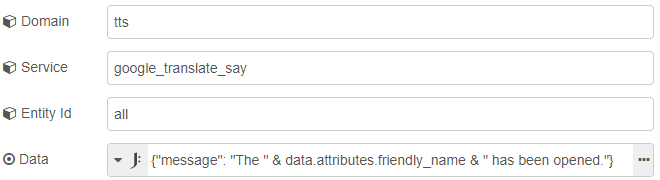
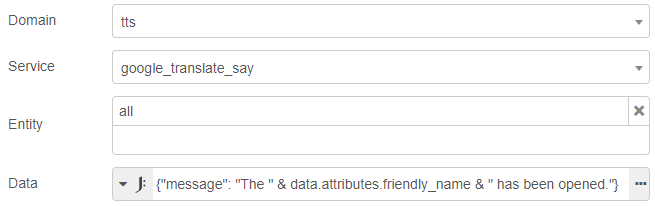
docs(call-service): Update tips and tricks and node docs with target info
Closes #574

diff --git a/docs/guide/call-service.md b/docs/guide/call-service.md
@@ -4,13 +4,9 @@
 
 The `homeassisant` domain can be used with different domains of entities with certain services.
 
-Here's an example of using the `homeassistant` domain to turn off a light and a switch in a single service call. This can save you from having to have multiple call-service nodes.
+Here's an example of using the `homeassistant` domain to turn off some lights, switches, and everything that can be turned off in the laundry room in a single service call. This can save you from having to have multiple call-service nodes.
 
 ![screenshot of a call-service node using homeassistant domain](./images/call-service_06.png)
-
-::: tip
-Most services in Home Assistant accept multiple entity ids in a single call. This is accomplished in the call-service node by using a comma-delimited list in the entity id field.
-:::
 
 ## Using Mustache Templates
 
@@ -30,16 +26,22 @@ Mustache templates are also accepted in the data field when their type is set to
 
 - [Mustache Templates](./mustache-templates.md)
 
+## Targets
+
+The target fields allow you to target areas, devices, and/or entities. Any combination can be used when they are available, some services don't accept areas and devices.
+
+Mustache templates and environment variables can be used inside each target list.
+
+## Data Field
+
 ::: tip
-It's recommend using the JSONata expression, `J: Expression`, for the data field as it has several advantages over JSON.
+It's recommended to use the JSONata expression, `J: Expression`, for the data field as it has several advantages over JSON.
 
 - Handles quotes based on the type of variable
 - Allows the insertion of more complex variables such as arrays and object
 - Mathematical operations are permitted
 
 :::
-
-## Data Field
 
 ### Inserting a message property into a string
 
@@ -64,7 +66,7 @@ There's a custom function in JSONata inside Home Assistant nodes that allows the
 
 ### Doing arithmetic
 
-Home Assistant states are represented as strings so to be able to do arithmetic on then in JSONata they will need to be cast to a number first use [`$number()`](https://docs.jsonata.org/numeric-functions#number). Most attributes of entities are in their correct state but never hurts to be safe and cast them as a number.
+Home Assistant states are represented as strings so to be able to do arithmetic on them in JSONata they will need to be cast to a number first use [`$number()`](https://docs.jsonata.org/numeric-functions#number). Most attributes of entities are in their correct state but never hurt to be safe and cast them as a number.
 
 `$number($entities("sensor.kitchen_lux").state)`
 
@@ -78,7 +80,7 @@ Home Assistant states are represented as strings so to be able to do arithmetic 
 
 ### Create a comma-delimited entity id list
 
-Example of getting a list of lights from the get-entities node and then creating an entity id list to turn them off. The entity id field is left blank in this example as we defining it in the data field.
+Example of getting a list of lights from the get-entities node and then creating an entity id list to turn them off. The entity id field is left blank in this example as it is defined in the data field.
 
 ![screenshot of flow](./images/call-service_07.png)
 
@@ -92,6 +94,7 @@ Example of getting a list of lights from the get-entities node and then creating
 
 **Also see:**
 
+- [Call-service node](../node/call-service.md)
 - [JSONata Guide](./jsonata.md)
 - [https://docs.jsonata.org](https://docs.jsonata.org)
 - [http://try.jsonata.org](http://try.jsonata.org)

diff --git a/docs/node/call-service.md b/docs/node/call-service.md
@@ -20,22 +20,28 @@ Service domain to call
 - Type: `string`
 - Accepts [Mustache Templates](/guide/mustache-templates.md)
 
-Service service to call
+Service to call
 
 ### Area
 
 - Type: `an array of area ids`
 - Accepts [Mustache Templates](/guide/mustache-templates.md) for ids
 
+A list of area ids that will be used as targets for the service call
+
 ### Device
 
 - Type: `an array of device ids`
 - Accepts [Mustache Templates](/guide/mustache-templates.md) for ids
 
+A list of device ids that will be used as targets for the service call
+
 ### Entity
 
 - Type: `an array of entity ids`
 - Accepts [Mustache Templates](/guide/mustache-templates.md) for ids
+
+A list of entity ids that will be used as targets for the service call
 
 ### Data
 
@@ -54,13 +60,13 @@ If defined will attempt to merge the global and flow context variable into the c
 
 - Type: `boolean`
 
-Will change the tags used for mustache template to `<%` and `%>`
+Will change the tags used for the mustache template to `<%` and `%>`
 
 ### Queue
 
 - Type: `none | first | all | last`
 
-Will store the first, last or all messages received while disconnected from Home Assistant and send them once connected again
+Will store the first, last, or all messages received while disconnected from Home Assistant and send them once connected again
 
 ## Input
 
@@ -114,7 +120,7 @@ Service service to call
 
 - Type: `JSON Object`
 
-Service data to send with API call
+Service data to send with the service call
 
 ### target
 
